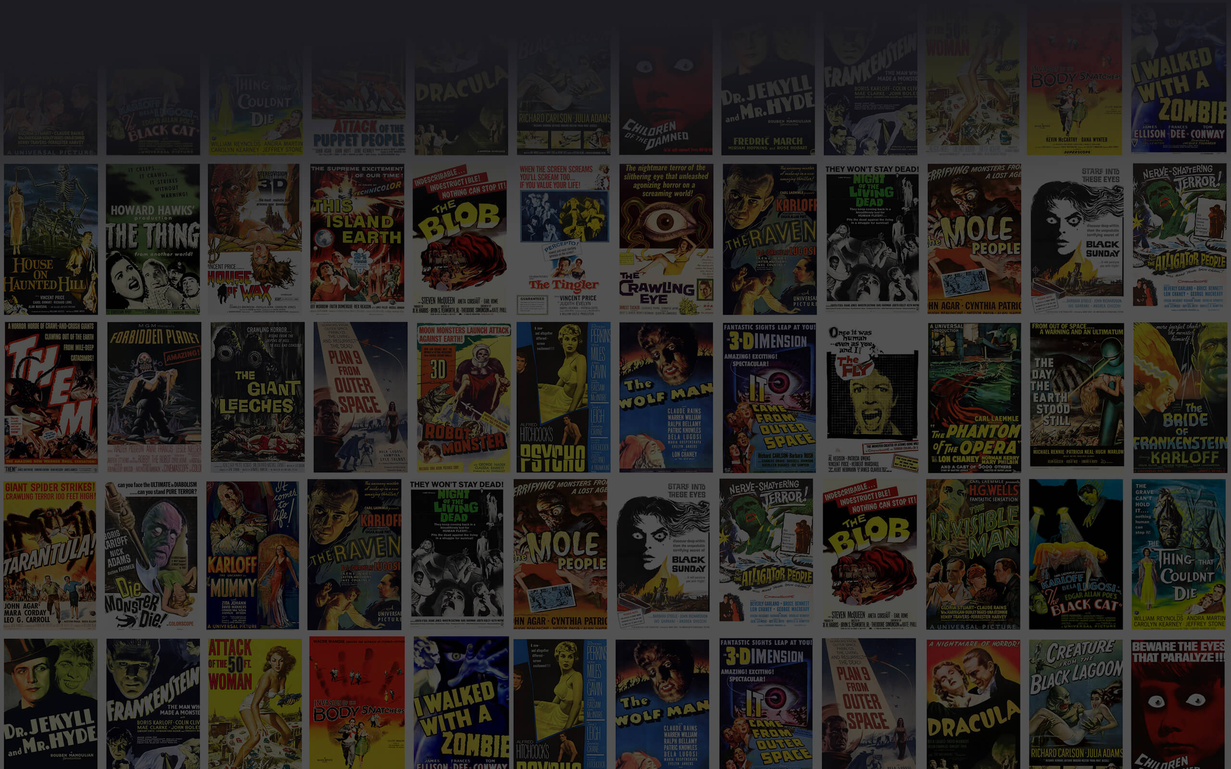
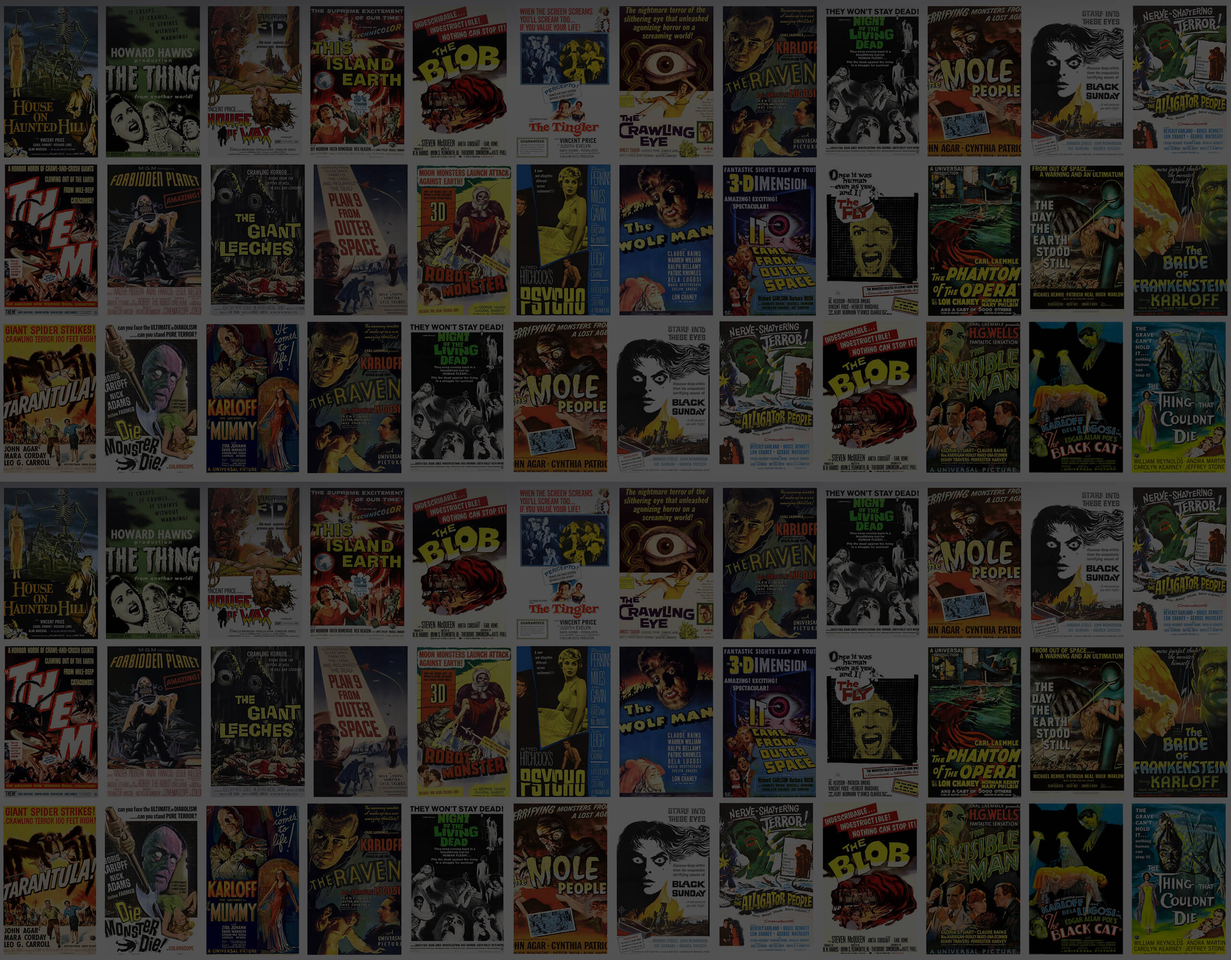
correccion de errores, y estilos

diff --git a/assets/css/styles.css b/assets/css/styles.css
@@ -6,39 +6,45 @@
     text-decoration: none;
     list-style: none;
     font-family: 'Raleway', sans-serif;
-    
 }
 
 body {
     background-image: url("../images/fondo.jpg");
-    background-size: cover;
+    background-size: 100%;
     min-height: 100vh;
     width: 100%;
 }
 
+
 .header {
     height: 130px;
+    
 }
+
 .header__menu {
     float: right;
     margin: 70px 110px; 
 }
+
 .header__link {
     display: inline;
     color: white;
     text-align: left;
     padding: 14px 0px;
-    text-decoration: none; 
+    text-decoration: none;
 }
+
 .header__link a {
     color: white;
     text-align: center;
     padding: 14px 16px;
     text-decoration: none; 
 }
+
 .header__link a:active {
     background-color: #616161; 
 }
+
 .header__link a:hover {
     background-color: #ba3232;
     border-radius: 8%; 
@@ -46,6 +52,9 @@ body {
 
 .navbar {
     margin-bottom: 50px;
+    background-color:#202020;
+    height: 140px;
+    
 }
 
 #logo {
@@ -53,6 +62,7 @@ body {
     margin-left:75px;
     transition: 0.5s all ease-in-out; 
 }
+
 #logo:hover {
     transform: scale(1.1); 
 }
@@ -69,16 +79,17 @@ body {
     height: 70px;
     padding: 0px 10px 20px 10px; 
 }
+
 .footer__copyright {
     background-color: #202020;
     text-align: center;
     padding: 10px 0px;
     margin: 0 -10px -10px -10px; 
 }
+
 .tituloRedes {
     padding: 20px; 
 }
-
 
 .peliculasLista {
     display: inline-flex;
@@ -87,6 +98,7 @@ body {
     width: 100%;
     text-align: center; 
 }   
+
 .cards_peliculas{
     width: 230px;
     margin: 35px;
@@ -99,14 +111,12 @@ body {
     width: 200px;
 } 
 
- .peliculas_content {
+.peliculas_content {
     margin-bottom: 10px;
     color: ivory;
     text-align:center;
     font-size: 14px
 }  
-
-
 
 .form-register {
     width: 400px;
@@ -132,7 +142,7 @@ body {
     padding: 10px;
     border-radius: 4px;
     margin-bottom: 16px;
-    border: 1px solid #1f53c5;
+    border: 1px solid #ba3232;
     font-family: 'raleway';
     font-size: 18px;
     color: white;
@@ -158,18 +168,31 @@ body {
 .btn{
     width: 100%;
     height: 40px;
-    background: #1f53c5;
+    background: #ba3232;
     font-family: "Raleway", sans-serif;
     text-align: center;
-    padding: 12px;
+    padding: 8px;
     color: white;
     margin: 16px 0;
     font-size: 16px;
     cursor: pointer;
 }
+
 button{
-    margin-bottom: 10px;
+    margin-bottom: 15px;
     font-family: "Raleway", sans-serif;
+    cursor: pointer;
+}
+
+.vaciarFav {
+    font-family: "Raleway", sans-serif;
+    width: 100px;
+    height: 40px;
+    background-color: #ba3232;
+    cursor: pointer;
+    color: white;
+    margin: 10px;
+   
 }
 
 .table{

diff --git a/javascript/main.js b/javascript/main.js
@@ -19,12 +19,13 @@ if (title === 'HorrorFlix - Registrate es gratis!') {
 
         const userReg = new Usuarios(usuario, mail, contraseña)
 
-        if (usuario.value ==""|| mail.value == "" || contraseña.value == "") {
+        if (usuario.value ===""|| mail.value === "" || contraseña.value === "") {
                       
             Swal.fire({
                 icon: 'error',
                 title: 'Algo salió mal...',
                 text: 'Por favor completa todos los campos',
+                confirmButtonColor: "#ba3232"
             })     
             return false;
         }
@@ -34,6 +35,7 @@ if (title === 'HorrorFlix - Registrate es gratis!') {
                 icon: 'error',
                 title: 'Algo salió mal...',
                 text: 'El password debe tener al menos 6 caracteres',
+                confirmButtonColor: "#ba3232"
             })
             return false;
         }
@@ -59,6 +61,7 @@ function alertExito(){
         title: 'Registro Exitoso!',
         text: 'Por favor inicie sesion',
         icon: 'success',
+        confirmButtonColor: "#ba3232",
         confirmButtonText: 'Iniciar Sesion',
     }).then((result)=>{
         window.location="./assets/views/login.html"
@@ -94,6 +97,7 @@ function alertExitoLogin(){
         title: 'Bienvenido!',
         icon: 'success',
         confirmButtonText: 'Vamos!',
+        confirmButtonColor: "#ba3232",
     }).then((result)=>{
         window.location="../views/principal.html"
     })
@@ -103,6 +107,7 @@ function alertErrorLogin() {
         icon: 'error',
         title: 'Algo salió mal...',
         text: 'Usuario y/o password incorrectos, intente nuevamente',
+        confirmButtonColor: "#ba3232",
     })
 }
 

diff --git a/assets/views/principal.html b/assets/views/principal.html
@@ -18,7 +18,7 @@
             </a>
             <ul class="header__menu">
                 <input type="search" class="search"><button class="srchBtn">Buscar</button>
-                <li class="header__link"><a href="carrito.html" target="_self">Carrito</a></li>
+                <li class="header__link"><a href="favoritos.html" target="_self">Favoritos</a></li>
                 <li class="header__link"><a href="../../index.html" target="_self">Log Out</a></li>
             </ul>   
         </nav>
@@ -30,7 +30,6 @@
                 <div id="peliculasLista" class="peliculasLista">
                 </div>
             </div>
-
         </section>
     </main>
 
@@ -41,7 +40,6 @@
         </div>
         </div>
     </footer>  
-
 
 
     <script src="https://cdn.jsdelivr.net/npm/sweetalert2@11.4.14/dist/sweetalert2.all.min.js"></script>

diff --git a/assets/views/favoritos.html b/assets/views/favoritos.html
@@ -27,11 +27,10 @@
     <table class="table table-danger text-center">
         <thead>
             <tr>
+                <th>Imagen</th>
                 <th>Titulo</th>
-                <th>Precio</th>
-                <th>Cantidad</th>
-                <th>Subtotal</th>
-                <th></th>
+                <th>Descripcion</th>
+                <th><button class="vaciarFav">Vaciar Favoritos</button></th>
             </tr>
         </thead>
         <tbody id="tbody"></tbody>
@@ -39,6 +38,6 @@
 
 
     <script src="https://cdn.jsdelivr.net/npm/sweetalert2@11.4.14/dist/sweetalert2.all.min.js"></script>
-    <script src="../../javascript/carrito.js"></script>
+    <script src="../../javascript/favoritos.js"></script>
 </body>
 </html>

diff --git a/index.html b/index.html
@@ -27,14 +27,8 @@
         <button class="btn" id="reg"  type="submit">Registrarme</button>
         <p><a href="./assets/views/login.html">¿Estás registrado? Haz click aquí</a></p>
     </section>
-  
-
-
-  
 
     <script src="https://cdn.jsdelivr.net/npm/sweetalert2@11.4.14/dist/sweetalert2.all.min.js"></script>
-    <script type="text/javascript" src="https://cdn.jsdelivr.net/npm/toastify-js"></script>
-    <script src="https://cdn.jsdelivr.net/npm/bootstrap@5.1.3/dist/js/bootstrap.min.js" integrity="sha384-QJHtvGhmr9XOIpI6YVutG+2QOK9T+ZnN4kzFN1RtK3zEFEIsxhlmWl5/YESvpZ13" crossorigin="anonymous"></script>
     <script src="javascript/main.js"></script>
 </body>
 </html>

diff --git a/assets/views/login.html b/assets/views/login.html
@@ -28,7 +28,6 @@
     </section>
 
     <script src="https://cdn.jsdelivr.net/npm/sweetalert2@11.4.14/dist/sweetalert2.all.min.js"></script>
-    <script type="text/javascript" src="https://cdn.jsdelivr.net/npm/toastify-js"></script>
     <script src="../../javascript/main.js"></script>
 </body>
 </html>
